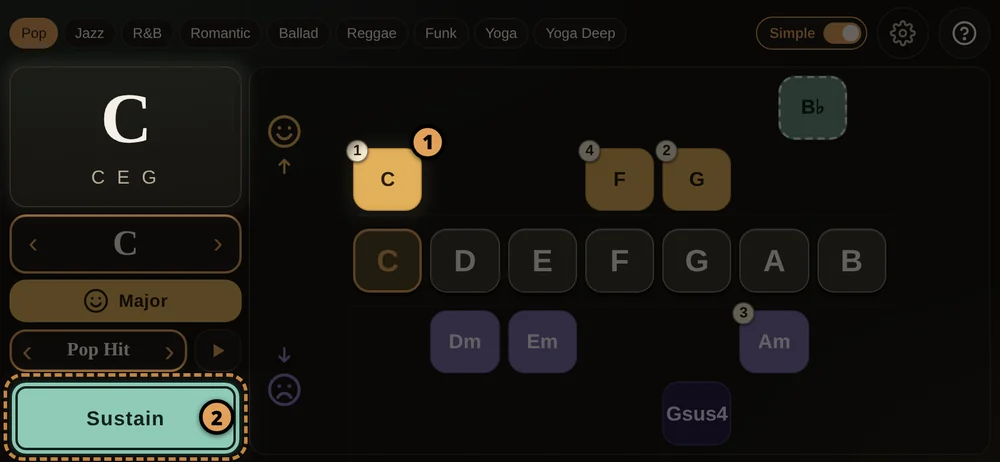
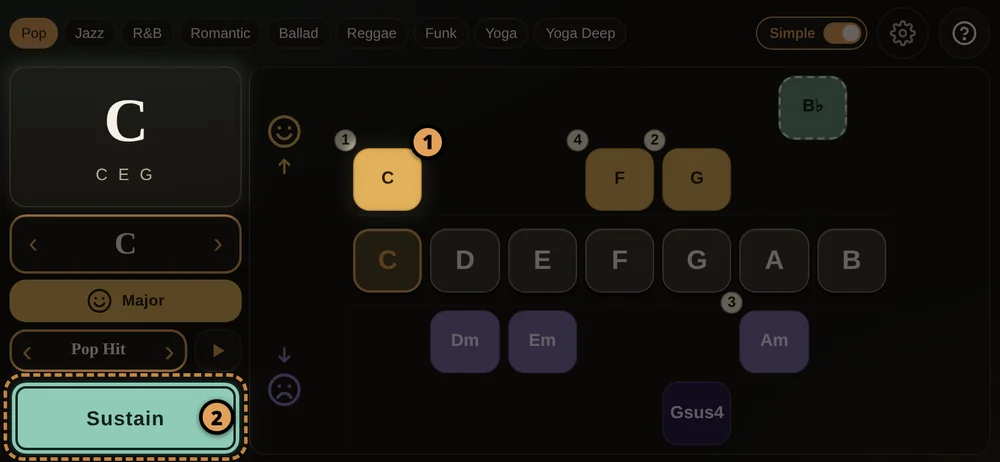
v58: Noff's v57 How to pictures (play suggestion, make chord, keyboard, full range, why, sustain, style); phone-landscape Play/Next hit areas no longer reach over the Now card; badges keep 1.5px clear of chip/note text and stay inside the strip horizontally

diff --git a/index.html b/index.html
@@ -1483,7 +1483,7 @@ html.lay-phone-port:not(.simple) .ss .pg-badge { min-width: 15px; height: 15px; 
 .pg-btn { position: relative; }
 .pg-btn::after { content: ""; position: absolute; inset: -3px; }
 html.lay-phone-land:not(.simple) .pg-btn { z-index: 2; }
-html.lay-phone-land:not(.simple) .pg-btn::after { inset: -2px -2px -21px; }
+html.lay-phone-land:not(.simple) .pg-btn::after { inset: -2px -3px -3px; }  /* v58: never over the Now card below */
 html.lay-phone-port:not(.simple) .pg-btn::after { inset: -1px -4px; }
 html.lay-phone-port:not(.simple) .pg-play::after { top: -6px; }
 html.lay-phone-port:not(.simple) .pg-step::after { bottom: -8px; }
@@ -4911,12 +4911,15 @@ function accSym(s) {
     var el = document.getElementById("suggest");
     if (!el || !prog.badges.length) return;
     var sr = el.getBoundingClientRect();
-    var pr = el.parentNode.getBoundingClientRect();
+    var pc = el.parentNode.getBoundingClientRect();
+    // v58: inside the strip horizontally (and the panel vertically).
+    var pr = { left: Math.max(pc.left, sr.left), right: Math.min(pc.right, sr.right), top: pc.top, bottom: pc.bottom };
     var texts = [];
     Array.prototype.forEach.call(el.querySelectorAll(".ss-chip .r, .ss-chip .q, .ss-chip .rn, .ss-note .nn, .ss-note small"), function (n) {
       if (!n.textContent || getComputedStyle(n).display === "none") return;
       var q = n.getBoundingClientRect();
-      if (q.width > 0 && q.height > 0) texts.push(q);
+      // v58: keep at least 1.5px clear of any text.
+      if (q.width > 0 && q.height > 0) texts.push({ left: q.left - 1.5, top: q.top - 1.5, right: q.right + 1.5, bottom: q.bottom + 1.5 });
     });
     // Never over the buttons above the panel either (a badge may poke a little above it).
     Array.prototype.forEach.call(document.querySelectorAll("button, .prog"), function (n) {
@@ -4942,6 +4945,8 @@ function accSym(s) {
       cands.push([L, B], [R, B]);
       for (f = 0.25; f < 1; f += 0.25) cands.push([t.left + (t.width - bw) * f, t.bottom - 2]);
       cands.push([L, t.top + 1], [R, t.top + 1], [t.left - bw * 0.3, t.top - bh * 0.38], [t.right - bw * 0.7, t.top - bh * 0.38]);
+      // v58: corners just touching, when tight (portrait phones).
+      cands.push([t.left - bw, t.top - bh + 1], [t.right, t.top - bh + 1], [t.left - bw, t.bottom - 1], [t.right, t.bottom - 1], [t.left - bw, ym], [t.right, ym]);
       var best = null;
       cands.forEach(function (c, ci) {
         var r = { left: c[0], top: c[1], right: c[0] + bw, bottom: c[1] + bh };
